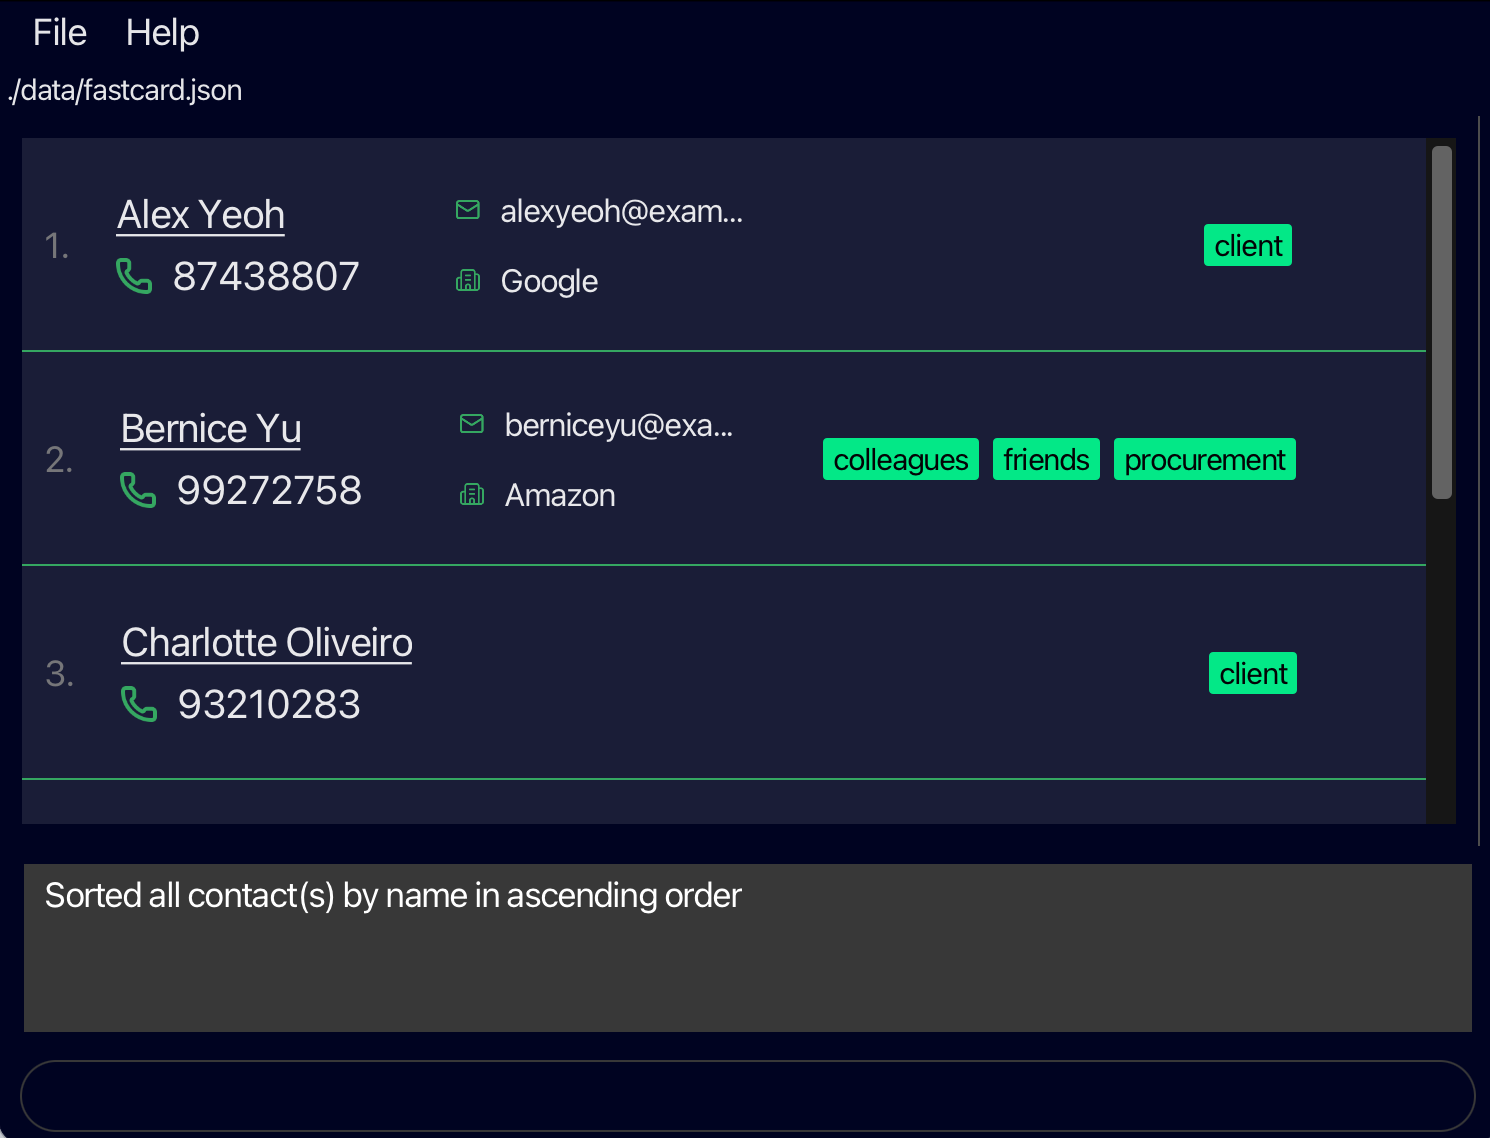
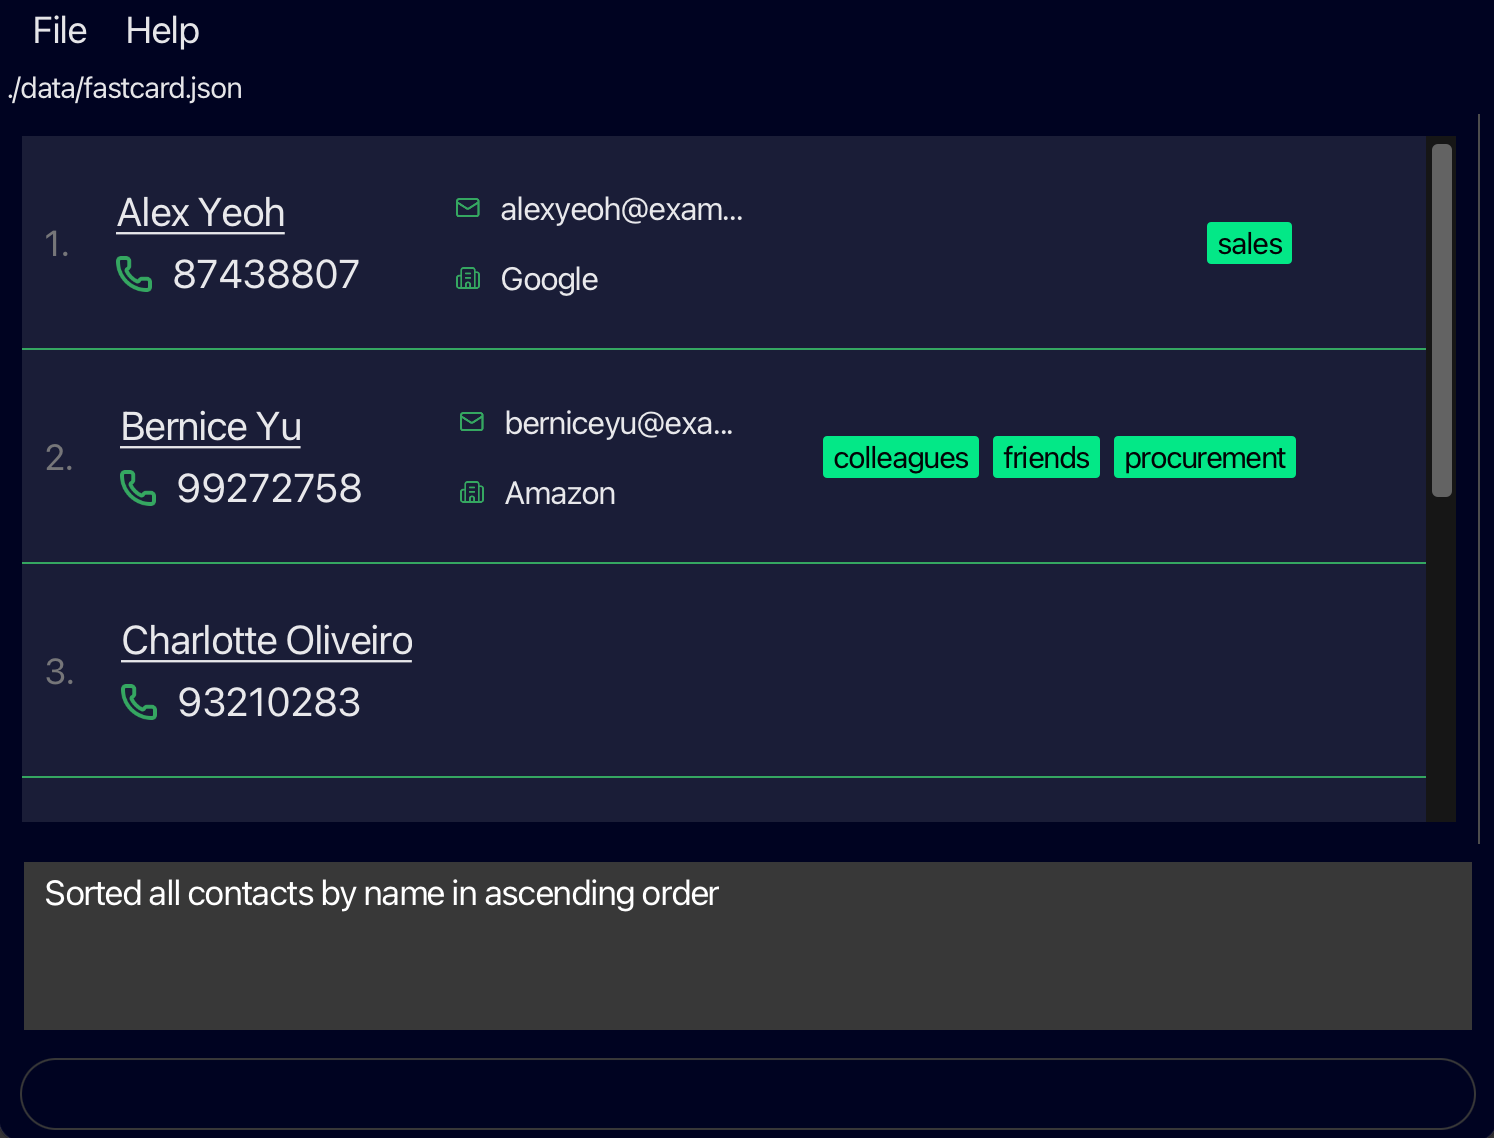
Update grammar in error message
Fix grammer in sort error message and thus the image as well

diff --git a/src/main/java/seedu/address/logic/commands/SortCommand.java b/src/main/java/seedu/address/logic/commands/SortCommand.java
@@ -18,14 +18,14 @@ public class SortCommand extends Command {
 
     public static final String COMMAND_WORD = "sort";
 
-    public static final String MESSAGE_USAGE = COMMAND_WORD + ": sorts all contact(s) in contact list "
+    public static final String MESSAGE_USAGE = COMMAND_WORD + ": sorts all contacts in the contact list "
             + "based on the sorting comparator passed in.\n"
             + "Parameters: f/[FIELD] o/[ORDER]\n"
             + "Example: " + COMMAND_WORD + " f/name o/asc\n"
             + "Valid fields: name, tag\n"
             + "Valid orderings: asc, desc";
 
-    public static final String MESSAGE_SUCCESS = "Sorted all contact(s) by %s in %s order";
+    public static final String MESSAGE_SUCCESS = "Sorted all contacts by %s in %s order";
 
     private static final Logger logger = LogsCenter.getLogger(SortCommand.class);
 
